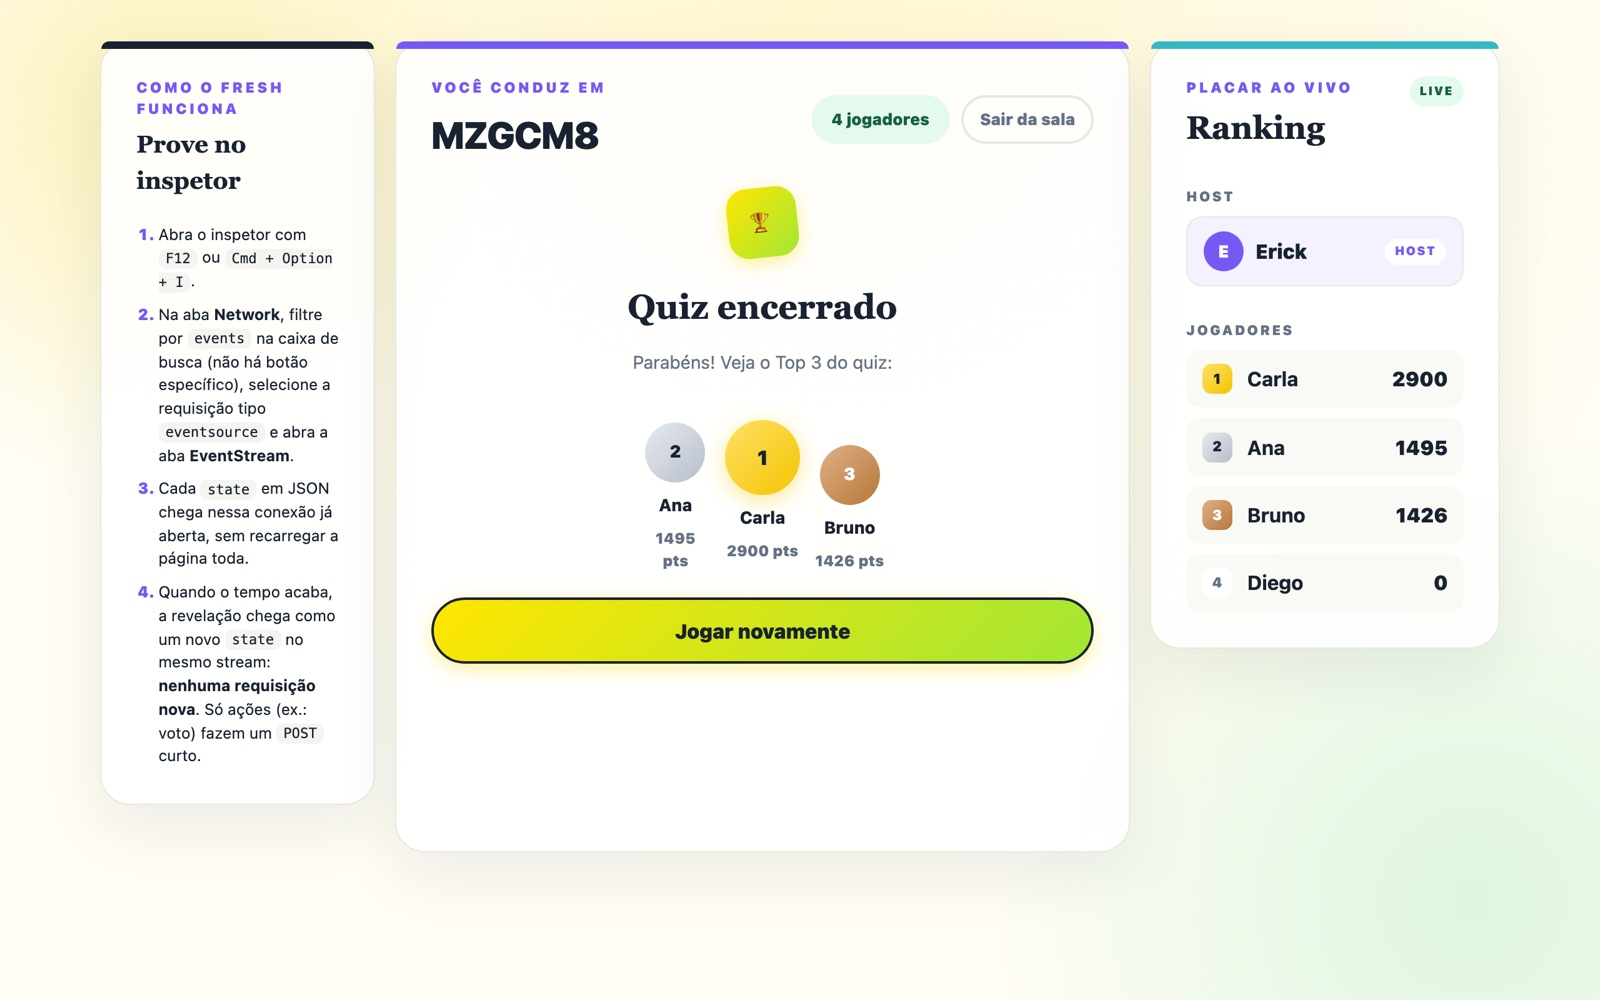
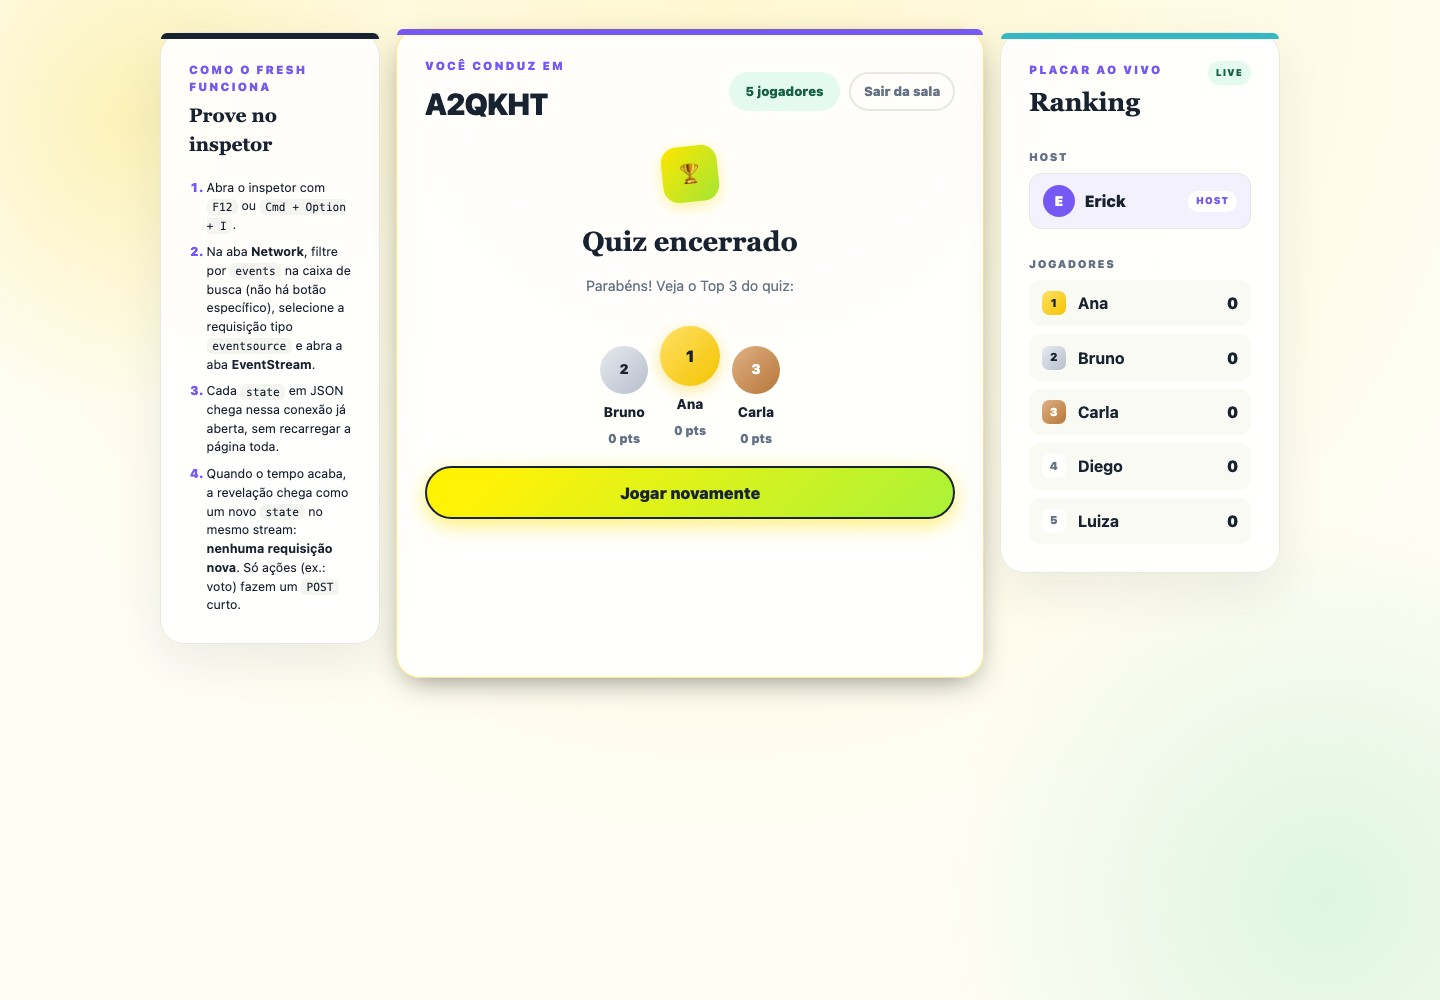
docs: standardize presentation and refresh app screenshots

diff --git a/README.md b/README.md
@@ -1,125 +1,111 @@
-# Fresh Quiz
+# Fresh Quiz — Fresh + Preact
 
-> There's also a Spring Boot + Angular version of this project:
-> [angular-spring-quiz](https://github.com/ErickHTF/angular-spring-quiz).
+A real-time multiplayer quiz about web fundamentals: create a room, share its
+code, and compete with friends through timed questions and a live leaderboard.
 
-Real-time quiz game about web fundamentals, built with Fresh, Preact, SSE and
-PostgreSQL.
+**Status:** Playable learning project · Original Fresh/Preact implementation.
 
-## Screenshots
+[![CI](https://github.com/ErickHTF/freshQuiz/actions/workflows/ci.yml/badge.svg)](https://github.com/ErickHTF/freshQuiz/actions/workflows/ci.yml)
 
-![Home page: join a game with a room code and a nickname](docs/screenshots/home.jpg)
+[Run locally](#run-locally) · [Development guide](docs/development.md) ·
+[Architecture](docs/architecture.md) · [API reference](docs/api.md)
 
-| Host view: live voting                                          | Final podium and ranking                    |
-| --------------------------------------------------------------- | ------------------------------------------- |
-| ![Host view with live voting](docs/screenshots/live-voting.jpg) | ![Final podium](docs/screenshots/final.jpg) |
+![Fresh Quiz home page with room code and nickname fields](docs/screenshots/home.jpg)
 
-## Requirements
+| Live voting — host view                                                                    | Final podium and ranking                                                   |
+| ------------------------------------------------------------------------------------------ | -------------------------------------------------------------------------- |
+| ![Host screen showing voting progress during a question](docs/screenshots/live-voting.jpg) | ![Podium and leaderboard at the end of a quiz](docs/screenshots/final.jpg) |
 
-- Deno 2+
-- Docker and Docker Compose
+_The game interface is in Brazilian Portuguese._
 
-## Development
+## Overview
+
+Fresh Quiz brings a host and players together in a browser-based game. The
+included quiz covers HTML, CSS, HTTP, JavaScript and APIs across 16 questions.
+
+- Join a room by code and nickname, with separate host and player views.
+- Answer timed questions with individually shuffled choices.
+- Follow live voting and automatic answer reveals through server-sent events.
+- Earn points for correct answers, with a bonus for speed.
+- Replay with the same group, resetting answers and scores.
+
+## Stack
+
+| Layer        | Technologies                                   |
+| ------------ | ---------------------------------------------- |
+| Runtime      | Deno 2, TypeScript                             |
+| Frontend     | Fresh 2, Preact, Preact signals                |
+| Database     | PostgreSQL, SQL migrations                     |
+| Real time    | Server-sent events (SSE), session cookies      |
+| Verification | Deno test, formatting, lint, type checking, k6 |
+
+## Run locally
+
+Install **Deno 2+** and **Docker with Docker Compose**.
 
 ```bash
+git clone https://github.com/ErickHTF/freshQuiz.git
+cd freshQuiz
 cp .env.example .env
 docker compose up -d
+deno install
 deno task dev
 ```
 
-When the Postgres container is created, `db/init/01-setup.sh` automatically
-applies the migrations in `db/migrations/` and the seed
-(`db/seed/001_web_basics.sql`). To recreate the database from scratch (this
-wipes the data):
+Open [localhost:5173/host](http://localhost:5173/host) to create a room, then
+[localhost:5173](http://localhost:5173/) in another browser session to join.
+Database migrations and quiz questions load when the database container is first
+created. The Angular version also uses database port `5433`; stop its database
+before starting this version.
+
+See the [development guide](docs/development.md) for database tasks and
+deployment.
+
+## Verification
 
 ```bash
-docker compose down -v && docker compose up -d
+deno task check
+deno task test
+deno task build
 ```
 
-If you'd rather run the tasks manually (for example, against an existing
-database), use `deno task db:migrate` and `deno task db:seed`.
+Keep PostgreSQL running to exercise database integration tests. See the
+[load-testing guide](loadtest/README.md) for k6 scenarios.
 
-Postgres is published on host port `5433` to avoid clashing with other local
-projects; adjust `DATABASE_URL` in `.env` if needed.
+## Architecture
 
-Open `http://localhost:5173/` to join a game or `/host` to create a room.
+```mermaid
+flowchart LR
+    Host[Host browser] -->|HTTP actions| App[Fresh server]
+    Player[Player browser] -->|HTTP actions| App
+    App -->|SSE state updates| Host
+    App -->|SSE state updates| Player
+    App -->|SQL| DB[(PostgreSQL)]
+```
 
-## Commands
+Fresh serves the pages and API routes. Interactive Preact islands receive game
+state through SSE and update the interface with signals. Server modules handle
+game rules, SQL persistence and timed answer reveals.
 
-- `deno task dev`: starts the development server.
-- `deno task db:migrate`: creates the PostgreSQL schema.
-- `deno task db:seed`: inserts the web fundamentals quiz.
-- `deno task check`: runs formatting, lint and typecheck.
-- `deno task test`: runs the tests.
-- `deno task build`: creates the production build.
+The deployment guide documents a single EC2 instance with systemd and a local
+PostgreSQL container. Restarting the app interrupts active games. Read the
+[architecture guide](docs/architecture.md) for the source layout and game
+lifecycle.
 
-The initial quiz has questions on HTML, CSS, HTTP, JavaScript, CSS selectors and
-APIs.
+## Documentation
 
-## Structure
+| Guide                                | Contents                                                   |
+| ------------------------------------ | ---------------------------------------------------------- |
+| [Development](docs/development.md)   | Requirements, local setup, configuration and test commands |
+| [Architecture](docs/architecture.md) | Source layout and game lifecycle                           |
+| [API reference](docs/api.md)         | Routes and session roles                                   |
+| [Load testing](loadtest/README.md)   | k6 scenarios and execution instructions                    |
 
-- `routes/`: HTTP routes and handlers (Fresh file-based routing); the API lives
-  in `routes/api/`.
-- `islands/`: interactive components hydrated on the client (SSE, voting,
-  ranking).
-- `components/`: SSR-only components, with no client-side JavaScript.
-- `server/`: server-only logic; `server/game/` splits the game domain into
-  repository, timed reveal and services.
-- `shared/`: isomorphic types and functions used by both the server and the
-  islands.
-- `db/`: migrations, seed and Postgres init; `db/scripts/` holds the
-  `db:migrate` and `db:seed` commands.
-- `assets/`: CSS processed by Vite (imported in `client.ts`).
-- `static/`: files served as-is (favicon, logo).
-- `deploy/`: systemd unit, deploy/reset scripts and provisioning guide.
-- `.github/`: CI and manual deploy workflows.
+## Project context
 
-The `_fresh/` folder is the build output (generated, not version-controlled).
+This is the original implementation of Fresh Quiz. The
+[Angular + Spring Boot version](https://github.com/ErickHTF/angular-spring-quiz)
+explores the same game with a different stack while preserving its rules,
+PostgreSQL schema and SSE approach.
 
-## Deploy
-
-Production runs on an EC2 instance (Amazon Linux), with `systemd` on port
-`:8000`. The `fresh_quiz` database runs on Postgres via Docker Compose on the
-instance.
-
-There are two independent workflows, both manual:
-
-- **App** (_Actions → App → Run workflow_): builds, ships only the code,
-  restarts the service and checks `/health`; if it fails, it restores the
-  previous release. It never touches the database. Restarting drops any games in
-  progress (ephemeral state).
-- **Database** (_Actions → Database → Run workflow_): type `RESET` and the
-  Postgres container is torn down and recreated (`down -v` + `up`), with
-  migrations and seed applied on init. Wipes all data.
-
-The provisioning guide is in [`deploy/SETUP.md`](deploy/SETUP.md).
-
-## Game Lifecycle
-
-- The host creates a room at `/host` with a nickname and shares the code.
-- Players join from the home page with a nickname.
-- The host's name is highlighted for everyone, in a section separate from the
-  ranking.
-- The host watches the voting live (with a timer until the reveal) and starts
-  the quiz; each question's answer is revealed automatically when time runs out.
-  After the reveal, the host moves on to the next question (or to the final
-  results) or ends early ("Encerrar quiz").
-- At the end, "Jogar novamente" (Play again) sends the room back to the lobby,
-  resetting scores and answers — connected players stay in the room.
-- "Sair da sala" (host) and "Sair" (player) clear the session cookies.
-
-## API
-
-| Method | Route                      | Description                                 |
-| ------ | -------------------------- | ------------------------------------------- |
-| POST   | `/api/games`               | Creates a room (sets the host cookie).      |
-| POST   | `/api/games/:code/join`    | Joins a room (sets the player cookies).     |
-| GET    | `/api/games/:code/state`   | Current game state.                         |
-| GET    | `/api/games/:code/events`  | SSE stream with real-time state.            |
-| POST   | `/api/games/:code/start`   | Starts the first question (host).           |
-| POST   | `/api/games/:code/answer`  | Records the player's answer.                |
-| POST   | `/api/games/:code/next`    | Advances past the revealed question (host). |
-| POST   | `/api/games/:code/finish`  | Ends the quiz early (host).                 |
-| POST   | `/api/games/:code/restart` | Back to the lobby, resetting scores (host). |
-| POST   | `/api/games/:code/leave`   | Clears the session cookies.                 |
-| GET    | `/health`                  | Health check (app + database).              |
+No license is currently included in this repository.

diff --git a/docs/development.md b/docs/development.md
@@ -1,0 +1,63 @@
+# Development guide
+
+[← Back to README](../README.md)
+
+## Requirements
+
+- Deno 2+
+- Docker and Docker Compose
+
+## Development
+
+```bash
+cp .env.example .env
+docker compose up -d
+deno task dev
+```
+
+When the Postgres container is created, `db/init/01-setup.sh` automatically
+applies the migrations in `db/migrations/` and the seed
+(`db/seed/001_web_basics.sql`). To recreate the database from scratch (this
+wipes the data):
+
+```bash
+docker compose down -v && docker compose up -d
+```
+
+If you'd rather run the tasks manually (for example, against an existing
+database), use `deno task db:migrate` and `deno task db:seed`.
+
+Postgres is published on host port `5433` to avoid clashing with other local
+projects; adjust `DATABASE_URL` in `.env` if needed.
+
+Open `http://localhost:5173/` to join a game or `/host` to create a room.
+
+## Commands
+
+- `deno task dev`: starts the development server.
+- `deno task db:migrate`: creates the PostgreSQL schema.
+- `deno task db:seed`: inserts the web fundamentals quiz.
+- `deno task check`: runs formatting, lint and typecheck.
+- `deno task test`: runs the tests.
+- `deno task build`: creates the production build.
+
+The initial quiz has questions on HTML, CSS, HTTP, JavaScript, CSS selectors and
+APIs.
+
+## Deploy
+
+Production runs on an EC2 instance (Amazon Linux), with `systemd` on port
+`:8000`. The `fresh_quiz` database runs on Postgres via Docker Compose on the
+instance.
+
+There are two independent workflows, both manual:
+
+- **App** (_Actions → App → Run workflow_): builds, ships only the code,
+  restarts the service and checks `/health`; if it fails, it restores the
+  previous release. It never touches the database. Restarting drops any games in
+  progress (ephemeral state).
+- **Database** (_Actions → Database → Run workflow_): type `RESET` and the
+  Postgres container is torn down and recreated (`down -v` + `up`), with
+  migrations and seed applied on init. Wipes all data.
+
+The provisioning guide is in [`deploy/SETUP.md`](../deploy/SETUP.md).

diff --git a/docs/architecture.md b/docs/architecture.md
@@ -1,0 +1,37 @@
+# Architecture and game lifecycle
+
+[← Back to README](../README.md)
+
+## Structure
+
+- `routes/`: HTTP routes and handlers (Fresh file-based routing); the API lives
+  in `routes/api/`.
+- `islands/`: interactive components hydrated on the client (SSE, voting,
+  ranking).
+- `components/`: SSR-only components, with no client-side JavaScript.
+- `server/`: server-only logic; `server/game/` splits the game domain into
+  repository, timed reveal and services.
+- `shared/`: isomorphic types and functions used by both the server and the
+  islands.
+- `db/`: migrations, seed and Postgres init; `db/scripts/` holds the
+  `db:migrate` and `db:seed` commands.
+- `assets/`: CSS processed by Vite (imported in `client.ts`).
+- `static/`: files served as-is (favicon, logo).
+- `deploy/`: systemd unit, deploy/reset scripts and provisioning guide.
+- `.github/`: CI and manual deploy workflows.
+
+The `_fresh/` folder is the build output (generated, not version-controlled).
+
+## Game Lifecycle
+
+- The host creates a room at `/host` with a nickname and shares the code.
+- Players join from the home page with a nickname.
+- The host's name is highlighted for everyone, in a section separate from the
+  ranking.
+- The host watches the voting live (with a timer until the reveal) and starts
+  the quiz; each question's answer is revealed automatically when time runs out.
+  After the reveal, the host moves on to the next question (or to the final
+  results) or ends early ("Encerrar quiz").
+- At the end, "Jogar novamente" (Play again) sends the room back to the lobby,
+  resetting scores and answers — connected players stay in the room.
+- "Sair da sala" (host) and "Sair" (player) clear the session cookies.

diff --git a/docs/api.md b/docs/api.md
@@ -1,0 +1,17 @@
+# API reference
+
+[← Back to README](../README.md)
+
+| Method | Route                      | Description                                 |
+| ------ | -------------------------- | ------------------------------------------- |
+| POST   | `/api/games`               | Creates a room (sets the host cookie).      |
+| POST   | `/api/games/:code/join`    | Joins a room (sets the player cookies).     |
+| GET    | `/api/games/:code/state`   | Current game state.                         |
+| GET    | `/api/games/:code/events`  | SSE stream with real-time state.            |
+| POST   | `/api/games/:code/start`   | Starts the first question (host).           |
+| POST   | `/api/games/:code/answer`  | Records the player's answer.                |
+| POST   | `/api/games/:code/next`    | Advances past the revealed question (host). |
+| POST   | `/api/games/:code/finish`  | Ends the quiz early (host).                 |
+| POST   | `/api/games/:code/restart` | Back to the lobby, resetting scores (host). |
+| POST   | `/api/games/:code/leave`   | Clears the session cookies.                 |
+| GET    | `/health`                  | Health check (app + database).              |
